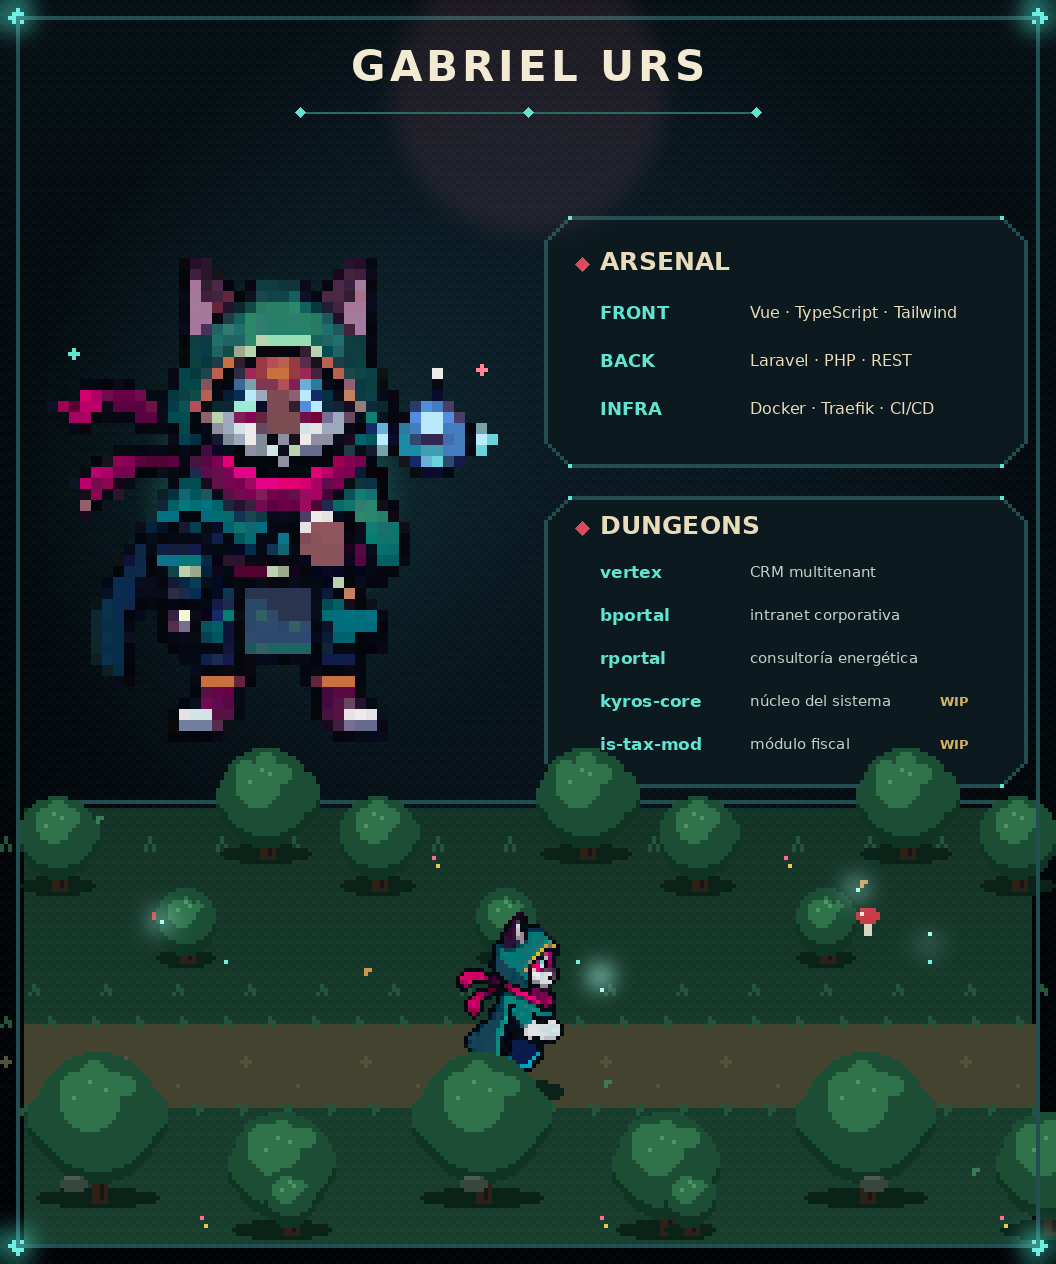
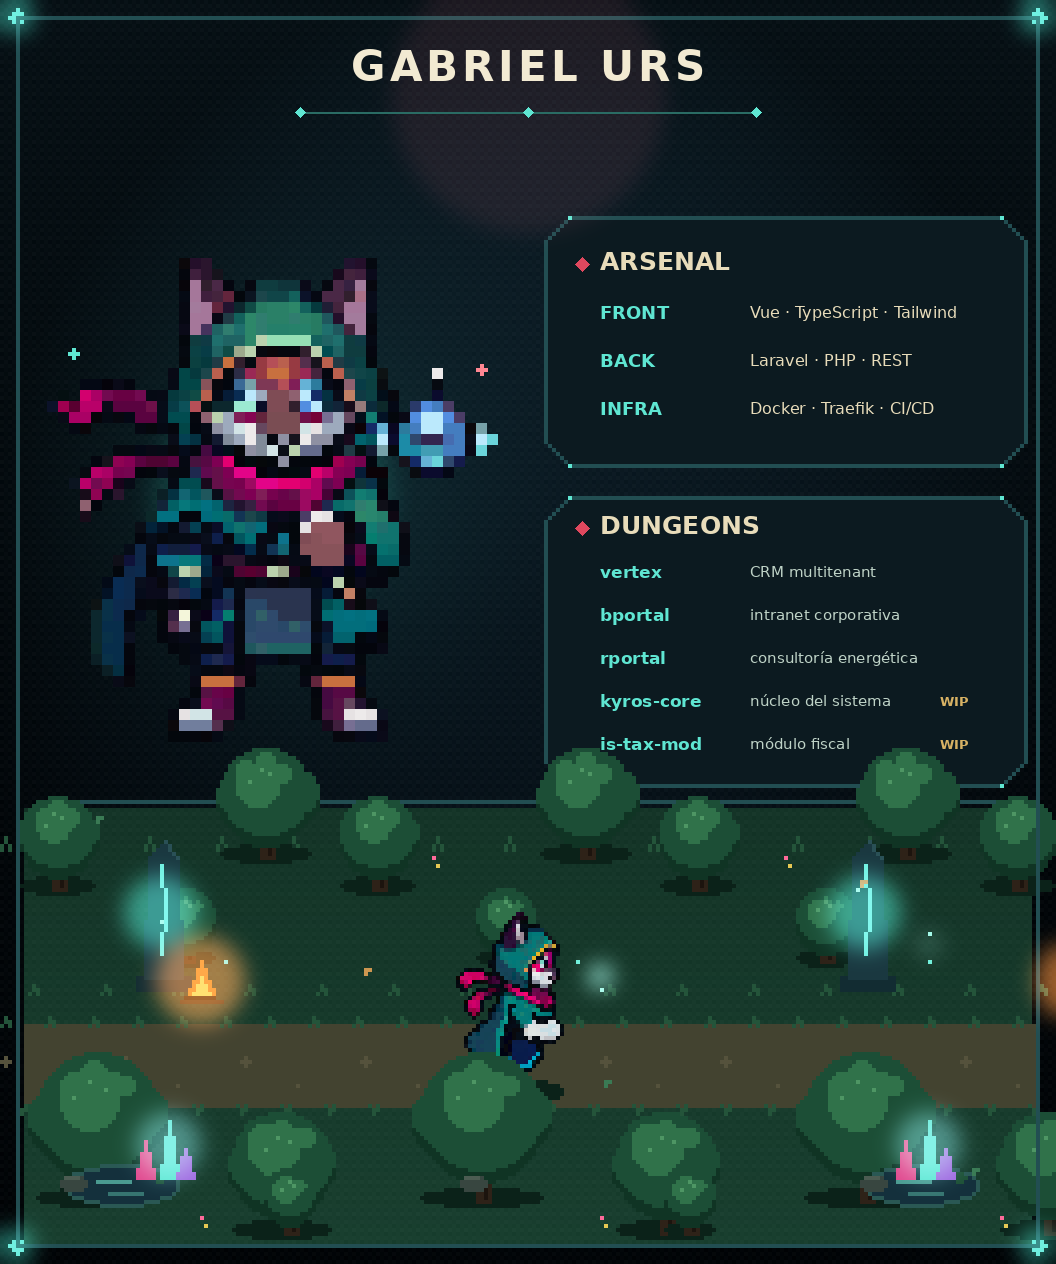
Forest landmarks: glowing monolith, campfire, crystals, pond

diff --git a/scripts/build_readme.py b/scripts/build_readme.py
@@ -137,7 +137,7 @@ def frame_glows(t):
     return g
 
 def frame(t,S):
-    scene=BASE.copy(); d=ImageDraw.Draw(scene); tau=2*math.pi*t
+    scene=BASE.copy(); d=ImageDraw.Draw(scene); tau=2*math.pi*t; dyn=[]
     for (a,b,c) in [(18,88,CYAN),(120,92,MAG_HI)]:   # sparkles above the portrait
         d.polygon([(a,b-1),(a+1,b),(a,b+1),(a-1,b)],fill=c)
     # ===== top-down forest (full width; runner faces right, world scrolls left) =====
@@ -161,6 +161,21 @@ def frame(t,S):
     def behind(bx):
         for (ox,oy,r) in sorted(BEHIND,key=lambda e:e[1]): tree_td(d,bx+ox,oy,r)
     tiled(BEHIND_P,behind)
+    def shrine(bx):                                   # glowing monolith landmark (scrolls past)
+        x=int(bx+40); base=Y0+44
+        d.rectangle([x-6,base,x+7,base+3],fill=(0x12,0x2c,0x32))
+        d.polygon([(x-4,base),(x-3,base-30),(x+1,base-34),(x+4,base-30),(x+5,base)],fill=(0x1a,0x38,0x40))
+        d.polygon([(x+1,base-34),(x+4,base-30),(x+2,base-32)],fill=(0x2a,0x50,0x56))
+        d.line([(x,base-6),(x+1,base-18),(x,base-28)],fill=(0x6f,0xf0,0xe0))
+        dyn.append((x,base-16,9,(69,230,204),0.55+0.3*math.sin(tau*1.5)))
+    tiled(176,shrine)
+    def campfire(bx):                                 # cozy fire (warm accent, flickers)
+        x=int(bx+50); y=Y0+50
+        d.line([(x-5,y),(x+5,y)],fill=(0x3a,0x28,0x1c)); d.line([(x-4,y-1),(x+3,y-1)],fill=(0x24,0x18,0x10))
+        fl=int(2*math.sin(tau*6))
+        d.polygon([(x,y-10-fl),(x-3,y-2),(x+3,y-2)],fill=(0xff,0x7a,0x2a)); d.polygon([(x,y-6-fl),(x-2,y-2),(x+2,y-2)],fill=(0xff,0xd0,0x5a))
+        dyn.append((x,y-5,11,(255,150,60),0.6+0.3*math.sin(tau*6)))
+    tiled(220,campfire)
     for (a,b,ph) in [(40,Y0+30,0.0),(214,Y0+22,0.5),(150,Y0+44,0.3),(232,Y0+36,0.8)]:
         yy=b+round(3*math.sin(tau+ph*6.28)); d.point([(a,yy)],fill=FIRE)
     if int(t*12)%6 in (1,4): d.ellipse([cx-16,FEET-1,cx-11,FEET+2],fill=DUST)   # footfall dust
@@ -169,6 +184,19 @@ def frame(t,S):
     def front(bx):
         for (ox,oy,r) in sorted(FRONT,key=lambda e:e[1]): tree_td(d,bx+ox,oy,r)
     tiled(FRONT_P,front)
+    def pond(bx):                                    # pond with animated shimmer (scrolls past)
+        x=int(bx+30); y=Y0+96
+        d.ellipse([x-14,y-5,x+14,y+5],fill=(0x14,0x30,0x3c)); d.ellipse([x-14,y-5,x+14,y+5],outline=(0x2a,0x58,0x54))
+        sh=int(3*math.sin(tau*2))
+        d.line([(x-6+sh,y-1),(x+2+sh,y-1)],fill=(0x4a,0x9a,0x90)); d.line([(x-3-sh,y+2),(x+5-sh,y+2)],fill=(0x36,0x74,0x70))
+        d.ellipse([x+8,y-3,x+11,y-1],fill=(0x1e,0x50,0x36))
+    tiled(200,pond)
+    def crystals(bx):                                # HLD crystal cluster (glows)
+        x=int(bx+40); y=Y0+94
+        for (dx,h,col) in [(-4,9,(0xe0,0x48,0x8e)),(2,14,(0x5f,0xe6,0xd2)),(6,7,(0xa0,0x6a,0xe0))]:
+            d.polygon([(x+dx,y-h),(x+dx-2,y),(x+dx+2,y)],fill=col)
+        dyn.append((x+2,y-8,8,(120,220,220),0.5+0.3*math.sin(tau*2)))
+    tiled(190,crystals)
     def scen_f(bx):                                  # rock + flowers + bush in the foreground
         gx=int(bx)
         d.ellipse([gx+15,Y0+94,gx+21,Y0+97],fill=ROCK); d.line([(gx+16,Y0+94),(gx+19,Y0+94)],fill=ROCK_L)
@@ -182,7 +210,7 @@ def frame(t,S):
     d.rectangle([4,4,W-5,H-5],outline=DIM)
     big=scene.resize((W*S,H*S),Image.NEAREST)
     gl=Image.new("RGB",big.size,(0,0,0)); gd=ImageDraw.Draw(gl)
-    for (gx,gy,gr,gc,gi) in frame_glows(t):
+    for (gx,gy,gr,gc,gi) in frame_glows(t)+dyn:
         GX,GY,GR=gx*S,gy*S,gr*S; gd.ellipse([GX-GR,GY-GR,GX+GR,GY+GR],fill=tuple(int(min(255,c*gi)) for c in gc))
     big=ImageChops.screen(big,gl.filter(ImageFilter.GaussianBlur(radius=S*2.5)))
     # drinking portrait (left column, chill loop)
